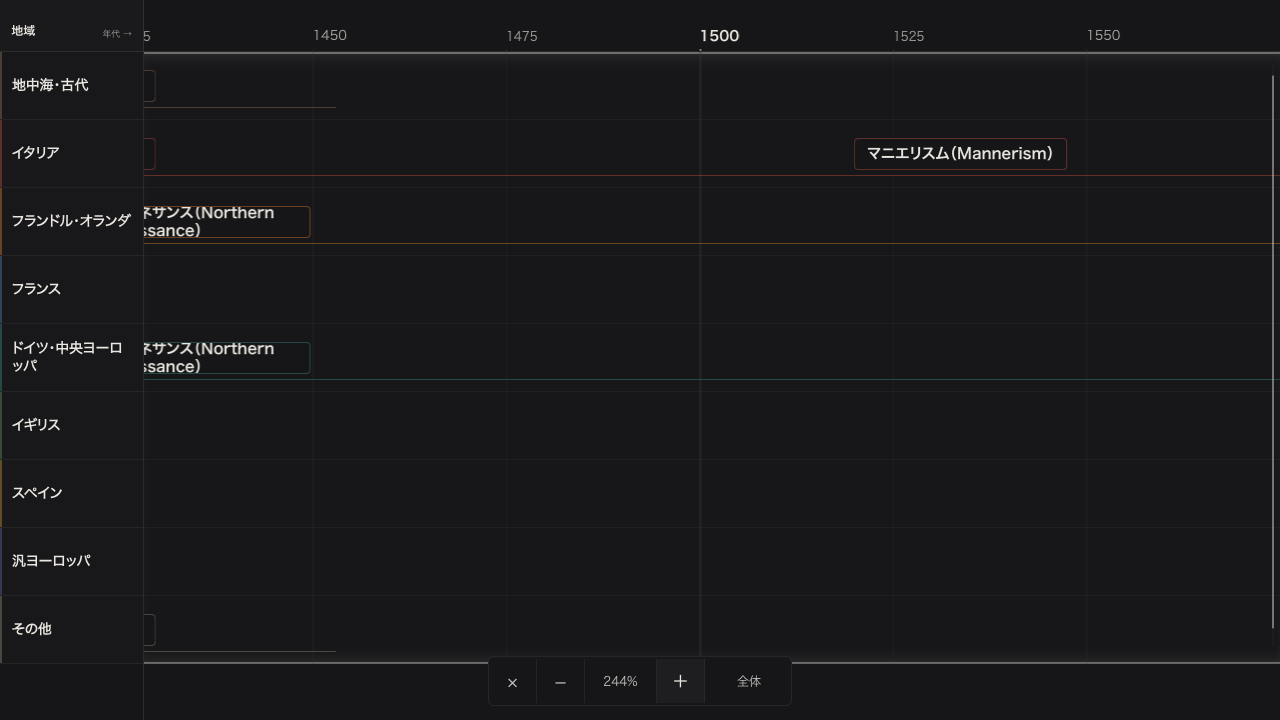
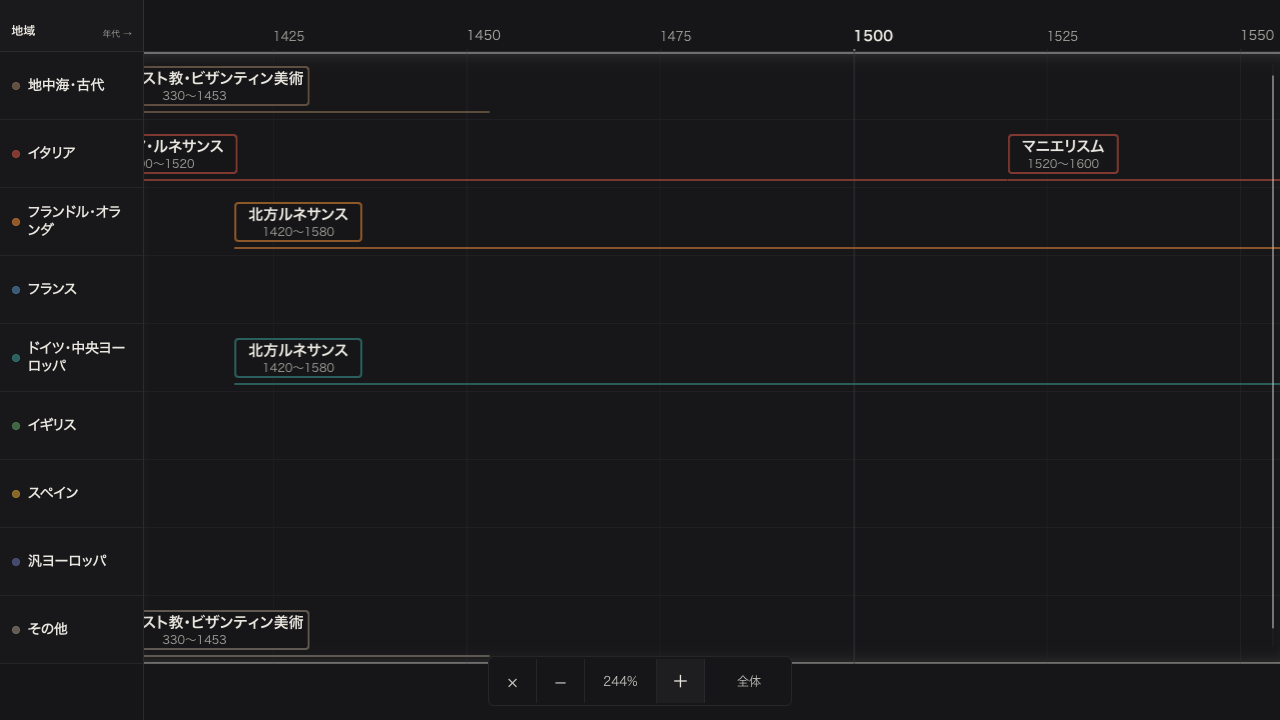
Improve timeline label readability

diff --git a/src/app/globals.css b/src/app/globals.css
@@ -681,13 +681,23 @@ html.dark .relation-badge {
 }
 
 .timeline-region-label {
+  gap: 0.45rem;
   border-top: 1px solid rgb(var(--c-line) / 0.22);
   font-weight: 500;
   letter-spacing: 0.015em;
 }
 
 .timeline-region-label:not([data-origin-band]) {
-  box-shadow: inset 2px 0 rgb(var(--timeline-region-rgb) / 0.46);
+  box-shadow: none;
+}
+
+.timeline-region-dot {
+  width: 0.45rem;
+  height: 0.45rem;
+  flex: 0 0 auto;
+  border: 1px solid rgb(var(--timeline-region-rgb) / 0.96);
+  border-radius: 999px;
+  background: rgb(var(--timeline-region-rgb) / 0.78);
 }
 
 .timeline-region-label[data-origin-band] {
@@ -771,8 +781,8 @@ html.dark .relation-badge {
 }
 
 .timeline-bar-visual {
-  height: 1.375rem;
-  border: 1px solid rgb(var(--timeline-region-rgb) / 0.58);
+  height: 2.125rem;
+  border: 2px solid rgb(var(--timeline-region-rgb) / 0.82);
   border-radius: 3px;
   background: rgb(var(--c-paper) / 0.94);
   box-shadow: none;
@@ -785,7 +795,7 @@ html.dark .relation-badge {
 }
 
 .timeline-bar-visual--secondary {
-  border-color: rgb(var(--timeline-region-rgb) / 0.58);
+  border-color: rgb(var(--timeline-region-rgb) / 0.82);
   background: rgb(var(--c-paper) / 0.94);
   box-shadow: none;
   color: rgb(var(--c-ink));
@@ -821,6 +831,8 @@ html.dark .relation-badge {
   white-space: nowrap;
   text-overflow: ellipsis;
   line-height: 1.1;
+  font-size: 0.6875rem;
+  font-weight: 600;
   text-align: center;
 }
 
@@ -831,7 +843,7 @@ html.dark .relation-badge {
   word-break: keep-all;
   text-overflow: ellipsis;
   color: rgb(var(--c-ink));
-  font-size: 0.625rem;
+  font-size: 0.6875rem;
   font-weight: 600;
   font-synthesis: weight;
   line-height: 1.25;
@@ -840,9 +852,9 @@ html.dark .relation-badge {
 
 .timeline-label-date {
   color: rgb(var(--c-muted));
-  font-size: 0.5625rem;
+  font-size: 0.6875rem;
   font-weight: 400;
-  line-height: 1;
+  line-height: 1.05;
   white-space: nowrap;
 }
 
@@ -1213,6 +1225,7 @@ html.dark .relation-badge {
   display: flex;
   width: 100%;
   align-items: center;
+  gap: 0.5rem;
   padding-inline: 0.75rem;
   overflow: hidden;
   border-bottom: 1px solid rgb(var(--c-line) / 0.34);
@@ -1225,7 +1238,16 @@ html.dark .relation-badge {
 }
 
 .timeline-viewer-region-label:not(.timeline-viewer-region-label--origin) {
-  box-shadow: inset 2px 0 rgb(var(--timeline-region-rgb) / 0.54);
+  box-shadow: none;
+}
+
+.timeline-viewer-region-dot {
+  width: 0.5rem;
+  height: 0.5rem;
+  flex: 0 0 auto;
+  border: 1px solid rgb(var(--timeline-region-rgb) / 0.98);
+  border-radius: 999px;
+  background: rgb(var(--timeline-region-rgb) / 0.82);
 }
 
 .timeline-viewer-region-label--origin {
@@ -1351,15 +1373,15 @@ html.dark .relation-badge {
   top: -1px;
   left: 0;
   z-index: 3;
-  height: 1px;
+  height: 2px;
   min-width: 1px;
-  background: rgb(var(--timeline-region-rgb, var(--c-line)) / 0.58);
+  background: rgb(var(--timeline-region-rgb, var(--c-line)) / 0.78);
   transform: translate3d(-200vw, -200vh, 0);
 }
 
 .timeline-viewer-period[data-priority='true'] {
-  height: 1px;
-  background: rgb(var(--timeline-region-rgb, var(--c-line)) / 0.58);
+  height: 2px;
+  background: rgb(var(--timeline-region-rgb, var(--c-line)) / 0.78);
 }
 
 .timeline-viewer-period[data-secondary-occurrence='true'] {
@@ -1418,12 +1440,15 @@ html.dark .relation-badge {
   position: relative;
   display: flex;
   width: 100%;
-  height: 2rem;
+  height: 2.5rem;
+  flex-direction: column;
   align-items: center;
   justify-content: center;
+  gap: 0.125rem;
   padding-inline: 0.75rem;
   overflow: hidden;
-  border: 1px solid rgb(var(--timeline-region-rgb, var(--c-line)) / 0.58);
+  border: 2px solid
+    rgb(var(--timeline-region-rgb, var(--c-line)) / 0.82);
   border-radius: 4px;
   background: rgb(var(--c-paper) / 0.96);
   transition:
@@ -1433,19 +1458,12 @@ html.dark .relation-badge {
 }
 
 .timeline-viewer-node__surface::after {
-  position: absolute;
-  right: auto;
-  bottom: -1px;
-  left: 0.625rem;
-  width: 1.25rem;
-  height: 1px;
-  background: rgb(var(--timeline-region-rgb, var(--c-line)) / 0.62);
-  content: '';
+  content: none;
 }
 
 .timeline-viewer-node[data-priority='true'] .timeline-viewer-node__surface {
   min-width: 4.5rem;
-  border-color: rgb(var(--timeline-region-rgb, var(--c-line)) / 0.58);
+  border-color: rgb(var(--timeline-region-rgb, var(--c-line)) / 0.82);
   background: rgb(var(--c-paper) / 0.96);
 }
 
@@ -1458,7 +1476,7 @@ html.dark .relation-badge {
 
 .timeline-viewer-node[data-secondary-occurrence='true']
   .timeline-viewer-node__surface {
-  border-color: rgb(var(--timeline-region-rgb, var(--c-line)) / 0.58);
+  border-color: rgb(var(--timeline-region-rgb, var(--c-line)) / 0.82);
   color: rgb(var(--c-ink));
   background: rgb(var(--c-paper) / 0.96);
 }
@@ -1488,6 +1506,20 @@ html.dark .relation-badge {
   line-height: 1.2;
   overflow-wrap: normal;
   word-break: keep-all;
+  text-overflow: ellipsis;
+  white-space: nowrap;
+}
+
+.timeline-viewer-node__date {
+  display: block;
+  overflow: hidden;
+  max-width: 100%;
+  color: rgb(var(--c-muted));
+  font-size: 0.71875rem;
+  font-weight: 400;
+  line-height: 1;
+  text-overflow: ellipsis;
+  white-space: nowrap;
 }
 
 .timeline-viewer-node[data-priority='true'] .timeline-viewer-node__short,
@@ -1510,9 +1542,6 @@ html.dark .relation-badge {
 
 .timeline-viewer-node__formal {
   display: none;
-  -webkit-box-orient: vertical;
-  -webkit-line-clamp: 2;
-  white-space: normal;
 }
 
 .timeline-viewer-overflow {
@@ -1565,12 +1594,12 @@ html.dark .relation-badge {
   .timeline-viewer-node__formal,
 .timeline-viewer-frame--active[data-semantic-level='detailed']
   .timeline-viewer-node__formal {
-  display: -webkit-box;
+  display: block;
 }
 
 .timeline-viewer-frame--active[data-semantic-level='detailed']
   .timeline-viewer-node__surface {
-  height: 2rem;
+  height: 2.5rem;
 }
 
 .timeline-viewer-position {
@@ -1670,7 +1699,7 @@ html.dark .relation-badge {
   }
 
   .timeline-viewer-node__surface {
-    height: 2rem;
+    height: 2.5rem;
     padding-inline: 0.625rem;
   }
 
@@ -1682,7 +1711,7 @@ html.dark .relation-badge {
 
   .timeline-viewer-frame--active[data-semantic-level='detailed']
     .timeline-viewer-node__surface {
-    height: 2rem;
+    height: 2.5rem;
   }
 
   .timeline-viewer-controls {
@@ -1730,9 +1759,9 @@ html.dark .relation-badge {
 
 .timeline-bar-visual {
   position: absolute;
-  height: 1.375rem;
+  height: 2.125rem;
   overflow: hidden;
-  border: 1px solid rgb(var(--timeline-region-rgb) / 0.58);
+  border: 2px solid rgb(var(--timeline-region-rgb) / 0.82);
   border-radius: 3px;
   background: rgb(var(--c-paper) / 0.94);
   color: rgb(var(--c-ink));
@@ -1744,13 +1773,13 @@ html.dark .relation-badge {
 }
 
 .timeline-bar-visual--priority {
-  border-color: rgb(var(--timeline-region-rgb) / 0.58);
+  border-color: rgb(var(--timeline-region-rgb) / 0.82);
   background: rgb(var(--c-paper) / 0.94);
   color: rgb(var(--c-ink));
 }
 
 .timeline-follow-label {
-  gap: 0.375rem;
+  gap: 0.125rem;
   background: transparent;
   color: rgb(var(--c-ink));
   font-family: var(--font-sans);
@@ -1760,7 +1789,7 @@ html.dark .relation-badge {
 
 [data-timeline-bar]:hover .timeline-bar-visual,
 [data-timeline-bar]:focus-visible .timeline-bar-visual {
-  border-width: 1px;
+  border-width: 2px;
   border-color: rgb(var(--timeline-region-rgb) / 0.86);
   background: rgb(var(--timeline-region-rgb) / 0.075);
   box-shadow: none;

diff --git a/src/components/HorizontalTimeline.tsx b/src/components/HorizontalTimeline.tsx
@@ -59,7 +59,6 @@ const DESKTOP_MIN_LANE_H = 50;
 const MOBILE_MIN_LANE_H = 50;
 const LABEL_INNER_PADDING = 8;
 const LABEL_TEXT_PADDING = 16;
-const LABEL_META_GAP = 6;
 const DESKTOP_DETAIL_LABEL_FOOTPRINT = 140;
 const MOBILE_DETAIL_LABEL_FOOTPRINT = 120;
 
@@ -316,7 +315,6 @@ export function HorizontalTimeline({
         movementId: movement.id,
         href: `/movements/${movement.id}/`,
         nameJa: movement.nameJa,
-        nameEn: movement.nameEn,
         shortLabel: movement.shortLabel,
         dateLabel: `${fmtYear(movement.dates.start)}〜${
           movement.dates.end === null ? '現在' : fmtYear(movement.dates.end)
@@ -346,7 +344,6 @@ export function HorizontalTimeline({
           movementId: movement.id,
           href: `/movements/${movement.id}/`,
           nameJa: summary.label,
-          nameEn: movement.nameEn,
           shortLabel: movement.shortLabel,
           dateLabel: `${fmtYear(movement.dates.start)}〜${
             movement.dates.end === null ? '現在' : fmtYear(movement.dates.end)
@@ -419,10 +416,7 @@ export function HorizontalTimeline({
         const availableWidth = Math.min(geometry.maximumWidth, visibleWidth);
         const availableNameWidth = Math.max(
           1,
-          availableWidth -
-            geometry.dateWidth -
-            LABEL_META_GAP -
-            LABEL_TEXT_PADDING,
+          availableWidth - LABEL_TEXT_PADDING,
         );
         const choice = chooseTimelineLabel({
           name: geometry.name,
@@ -443,10 +437,7 @@ export function HorizontalTimeline({
         const resolvedLabelWidth = Math.max(
           1,
           Math.min(
-            chosenWidth +
-              geometry.dateWidth +
-              LABEL_META_GAP +
-              LABEL_TEXT_PADDING,
+            Math.max(chosenWidth, geometry.dateWidth) + LABEL_TEXT_PADDING,
             availableWidth,
           ),
         );
@@ -502,7 +493,7 @@ export function HorizontalTimeline({
       const dateWidth = dateElement.getBoundingClientRect().width;
       const availableNameWidth = Math.max(
         1,
-        availableWidth - dateWidth - LABEL_META_GAP - LABEL_TEXT_PADDING,
+        availableWidth - LABEL_TEXT_PADDING,
       );
       const name = element.dataset.fullLabel ?? '';
       const shortLabel = element.dataset.shortLabel || undefined;
@@ -534,7 +525,7 @@ export function HorizontalTimeline({
       const resolvedLabelWidth = Math.max(
         1,
         Math.min(
-          chosenWidth + dateWidth + LABEL_META_GAP + LABEL_TEXT_PADDING,
+          Math.max(chosenWidth, dateWidth) + LABEL_TEXT_PADDING,
           availableWidth,
         ),
       );
@@ -789,7 +780,8 @@ export function HorizontalTimeline({
                 } as CSSProperties
               }
             >
-              {REGION_LABELS[lane.region]}
+              <span className="timeline-region-dot" aria-hidden="true" />
+              <span>{REGION_LABELS[lane.region]}</span>
             </div>
           ))}
         </div>
@@ -975,7 +967,7 @@ export function HorizontalTimeline({
                           data-follow-label
                           data-full-label={movement.nameJa}
                           data-short-label={movement.shortLabel}
-                          className="timeline-follow-label pointer-events-none absolute inset-y-0 left-0 flex items-center overflow-hidden px-px"
+                          className="timeline-follow-label pointer-events-none absolute inset-y-0 left-0 flex flex-col items-center justify-center overflow-hidden px-px"
                         >
                           <span
                             data-label-text

diff --git a/src/components/TimelineViewerFrame.tsx b/src/components/TimelineViewerFrame.tsx
@@ -43,7 +43,6 @@ export type TimelineViewerNode = {
   movementId: string;
   href: string;
   nameJa: string;
-  nameEn: string;
   shortLabel?: string;
   dateLabel: string;
   regionLabel: string;
@@ -1370,7 +1369,13 @@ export function TimelineViewerFrame({
                       : undefined
                   }
                 >
-                  {region.label}
+                  {region.id !== 'origin' && (
+                    <span
+                      className="timeline-viewer-region-dot"
+                      aria-hidden="true"
+                    />
+                  )}
+                  <span>{region.label}</span>
                 </span>
               ))}
             </div>
@@ -1503,7 +1508,7 @@ export function TimelineViewerFrame({
                     setMovementPeersHighlighted(node.movementId, false)
                   }
                   aria-label={`${node.nameJa}。${node.dateLabel}。${node.regionLabel}。${node.classificationLabel}。${node.priority ? '基本項目' : '充実・詳細項目'}`}
-                  title={`${node.nameJa} (${node.nameEn})`}
+                  title={`${node.nameJa} ${node.dateLabel}`}
                 >
                   <span className="timeline-viewer-node__surface">
                     <span className="timeline-viewer-node__short">
@@ -1514,7 +1519,9 @@ export function TimelineViewerFrame({
                     </span>
                     <span className="timeline-viewer-node__formal">
                       {node.nameJa}
-                      <span lang="en">（{node.nameEn}）</span>
+                    </span>
+                    <span className="timeline-viewer-node__date">
+                      {node.dateLabel}
                     </span>
                   </span>
                 </Link>
